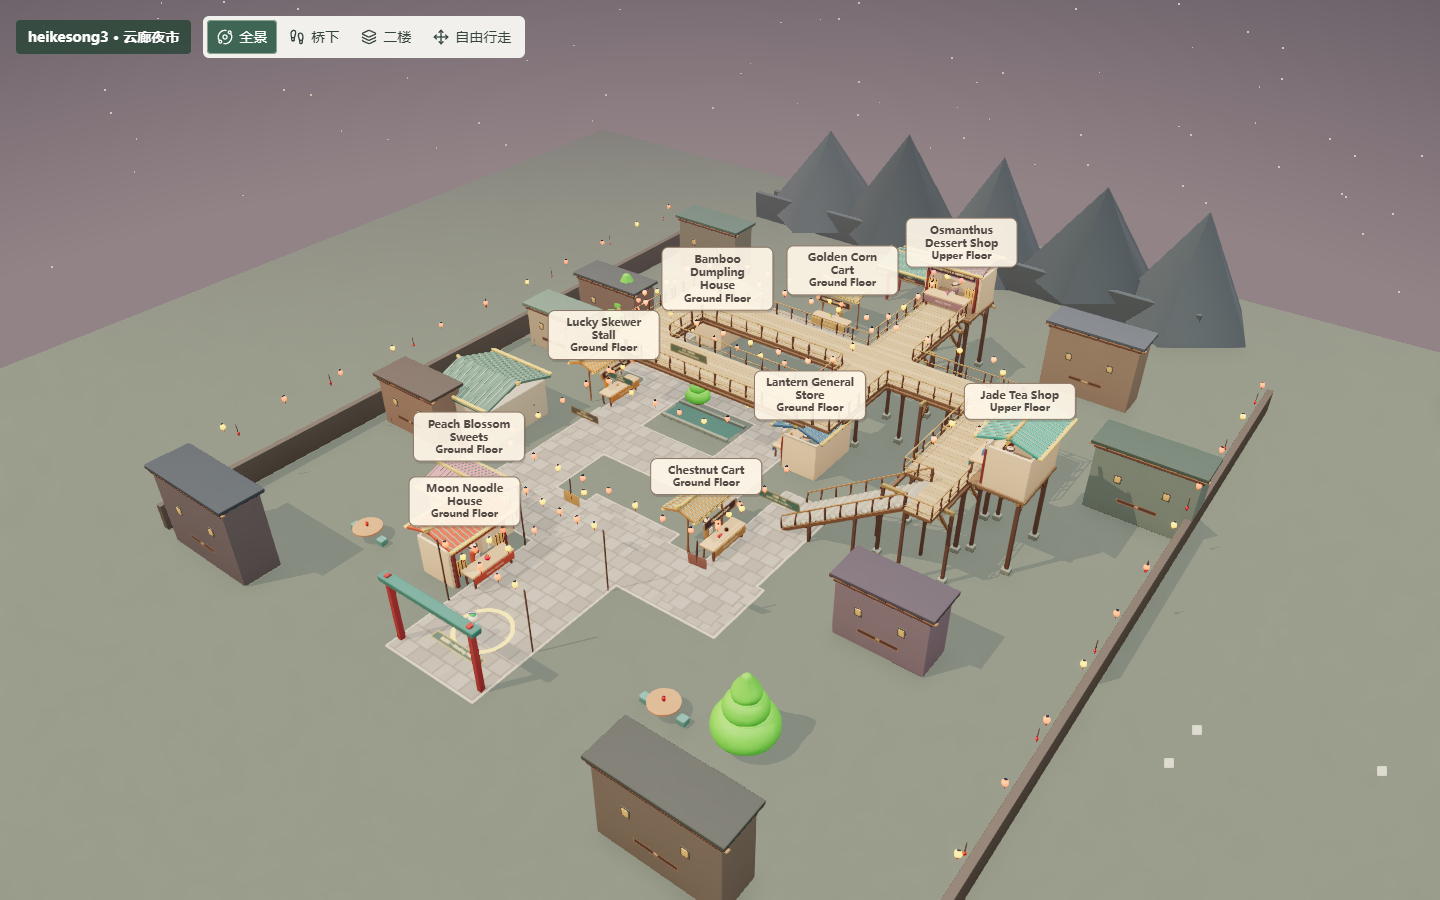
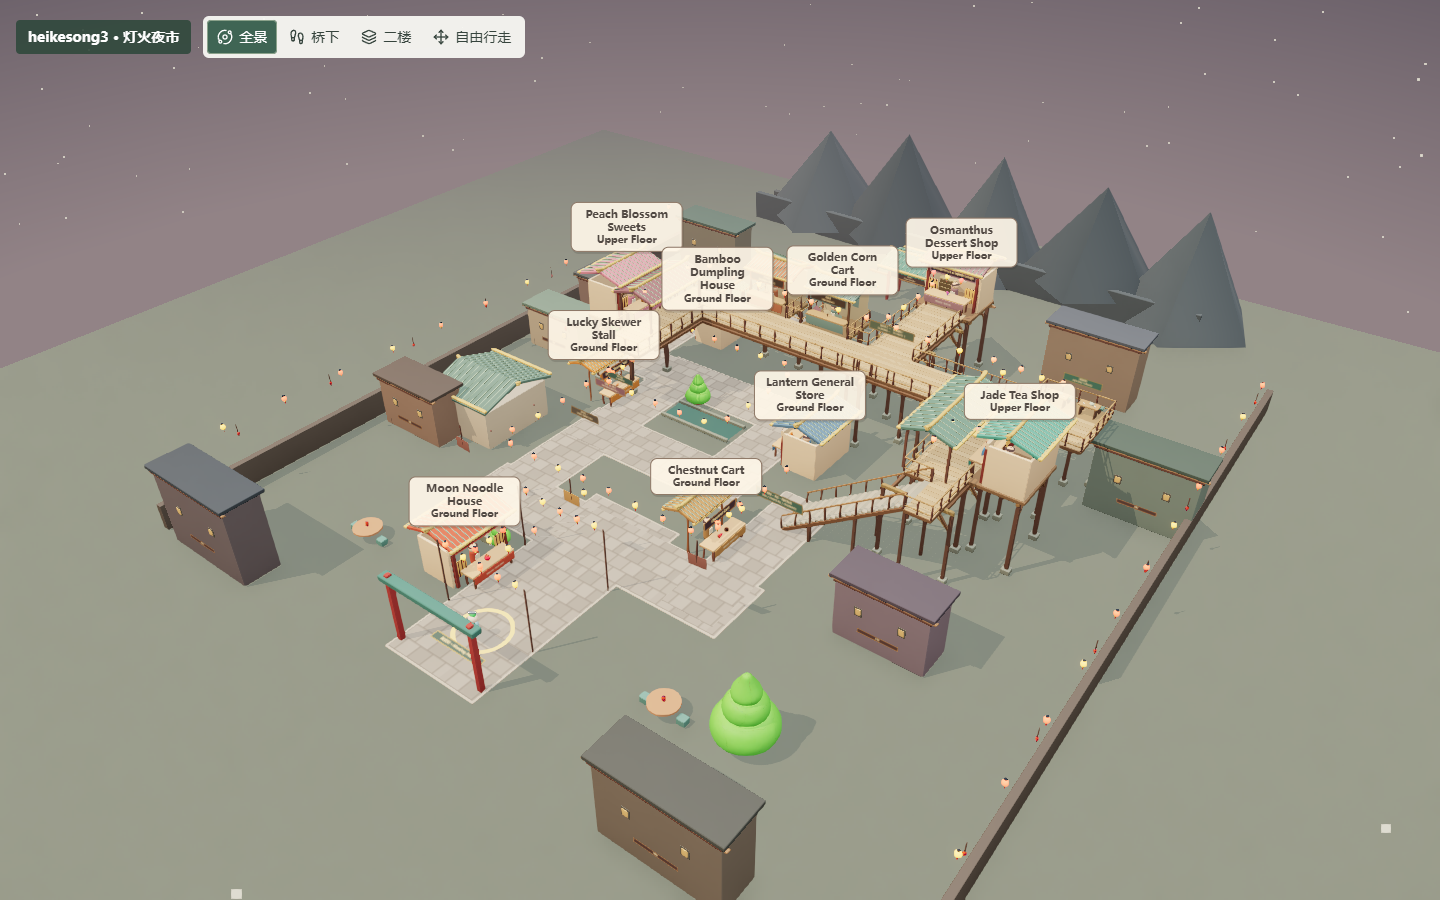
feat: organize elevated night market around merchant frontages

diff --git a/src/components/three/NightMarketScene.tsx b/src/components/three/NightMarketScene.tsx
@@ -143,7 +143,11 @@ function TimberBeam({ from, to, width = 0.16, color = '#806049' }: { from: [numb
 const deckParts = (road: typeof MARKET_ROADS[number]) => road.a === 12
   ? [{ x: 16, z: -10.05, w: 3.4, d: 11.3 }, { x: 16.85, z: -2.85, w: 1.7, d: 3.1 }]
   : [road];
-const upperDecks = MARKET_ROADS.filter((r) => r.level === 2).flatMap(deckParts);
+const upperDecks = [
+  ...MARKET_ROADS.filter((r) => r.level === 2).flatMap(deckParts),
+  { x: 19.5, z: -16.5, w: 4.4, d: 1.7 },
+  ...[-3.3, 1.8].map((x) => ({ x, z: -17.1, w: 3.8, d: 3 })),
+];
 const belowHeight = MARKET_UPPER_HEIGHT - 0.35;
 
 function BridgeSupports({ road }: { road: typeof MARKET_ROADS[number] }) {
@@ -309,9 +313,14 @@ function SkywalkRails() {
       for (let i = 0; i <= count; i++) {
         const [x, , z] = point(i + 0.5);
         const internal = upperDecks.some((other, j) => j !== deckIndex && Math.abs(x + edge.outward[0] * 0.04 - other.x) < other.w / 2 && Math.abs(z + edge.outward[1] * 0.04 - other.z) < other.d / 2);
-        const entrance = (Math.abs(x - 16) < 0.1 && z > -4.4 && z < -1.5)
-          || (Math.abs(x - 17.7) < 0.1 && z > -10.5 && z < -5.5)
-          || (z < -23.5 && x > 5.2 && x < 8.8);
+        const shopEntrance = MARKET_SHOPS.some((shop) => {
+          if (!shop.elevation) return false;
+          const dx = x - shop.x, dz = z - shop.z;
+          const across = dx * Math.cos(shop.yaw) - dz * Math.sin(shop.yaw);
+          const front = dx * Math.sin(shop.yaw) + dz * Math.cos(shop.yaw);
+          return Math.abs(across) < 1.8 && front > 0.9 && front < 2.6;
+        });
+        const entrance = shopEntrance || (Math.abs(x - 16) < 0.1 && z > -4.4 && z < -1.5);
         const draw = i < count && !internal && !entrance;
         if (draw && start < 0) start = i;
         if (!draw && start >= 0) { runs.push({ from: point(start), to: point(i) }); start = -1; }
@@ -331,8 +340,8 @@ function TieredDistrict() {
     <Prop name="pineTree" position={[-4.8, 0, -9.8]} size={2.4} word={false} />
     <SkywalkRails />
     <Sign lines={['桥下通街', 'UNDERPASS']} position={[-8, 3.1, -5.2]} size={[2.3, 0.5]} bg="#526e66" fg="#f9e3b6" border="#ad926b" />
-    <Sign lines={['云廊 · 池院环桥', 'COURTYARD SKYWALK']} position={[-2, MARKET_UPPER_HEIGHT + 1.7, -5.3]} size={[3, 0.6]} bg="#6c7865" fg="#f6dfb3" border="#ad926b" />
-    <Sign lines={['玉露楼 · 二楼', 'UPPER TEA GALLERY →']} position={[8, 2.4, -1.2]} size={[3, 0.65]} bg="#58776b" fg="#f9e3b6" border="#ad926b" />
+    <Sign lines={['茶楼 · 点心 · 桂花甜品', 'TEA / PASTRIES / DESSERTS']} position={[8, 2.4, -1.2]} size={[3.4, 0.75]} bg="#58776b" fg="#f9e3b6" border="#ad926b" />
+    <Sign lines={['桃花点心 ←    桂香甜品 ↑', 'PASTRIES ←    DESSERTS ↑']} position={[7, MARKET_UPPER_HEIGHT + 1.8, -15.6]} size={[3.4, 0.65]} bg="#6c7865" fg="#f6dfb3" border="#ad926b" />
     <Sign lines={['荷池院 ←', 'POND COURTYARD']} position={[-7.5, 2.5, -1]} size={[2.5, 0.6]} bg="#6d655c" fg="#f6dfb3" border="#ad926b" />
     <Sign lines={['竹里巷 · BAMBOO LANE']} position={[-12.8, 2.4, -13.8]} size={[3.2, 0.5]} bg="#6c7865" fg="#f6dfb3" border="#ad926b" />
     {MARKET_PATHS.filter((p) => p.level !== 1).map((path) => {
@@ -340,6 +349,91 @@ function TieredDistrict() {
       const y = path.level === 2 ? MARKET_UPPER_HEIGHT + 3.2 : 4.4;
       return <LanternString key={path.name} from={[a.x, y, a.z]} to={[b.x, y, b.z]} count={Math.max(3, Math.floor(Math.hypot(b.x - a.x, b.z - a.z) / 2))} sag={0.25} color={path.level === 2 ? '#dac48a' : '#d49c6e'} />;
     })}
+  </group>;
+}
+
+function TeaTable({ position, color = '#719185' }: { position: [number, number, number]; color?: string }) {
+  return <group position={position}>
+    <Box size={[1.25, 0.12, 0.7]} position={[0, 0.78, 0]} color="#ba9870" radius={0.035} />
+    {[-0.46, 0.46].map((x) => <Box key={x} size={[0.09, 0.72, 0.48]} position={[x, 0.36, 0]} color="#765b4d" radius={0.015} />)}
+    <Box size={[1.4, 0.12, 0.38]} position={[0, 0.42, -0.68]} color={color} radius={0.03} />
+    {[-0.5, 0.5].map((x) => <Box key={x} size={[0.1, 0.4, 0.32]} position={[x, 0.2, -0.68]} color="#765b4d" radius={0.015} />)}
+    <mesh position={[0.12, 0.9, 0]}><cylinderGeometry args={[0.14, 0.11, 0.12, 12]} /><meshStandardMaterial color="#e1e3cf" roughness={0.45} /></mesh>
+    <mesh position={[0.12, 0.98, 0]}><coneGeometry args={[0.16, 0.06, 12]} /><meshStandardMaterial color="#bdcbb6" /></mesh>
+    {[-0.3, 0.4].map((x) => <mesh key={x} position={[x, 0.87, 0.18]}><cylinderGeometry args={[0.07, 0.045, 0.09, 12]} /><meshStandardMaterial color="#eee4d2" roughness={0.5} /></mesh>)}
+  </group>;
+}
+
+function CraftFrontage({ x, craft }: { x: number; craft: 'lanterns' | 'fans' }) {
+  const lanterns = craft === 'lanterns';
+  const color = lanterns ? '#bc795a' : '#7d9790';
+  return <group position={[x, MARKET_UPPER_HEIGHT, -17]}>
+    <Box size={[3.8, 0.22, 3]} position={[0, -0.11, -0.1]} color="#947855" radius={0.025} />
+    {[-1.55, 1.55].map((px) => <group key={px}>
+      <Box size={[0.22, MARKET_UPPER_HEIGHT, 0.22]} position={[px, -MARKET_UPPER_HEIGHT / 2, -1.2]} color="#795b4a" radius={0.02} />
+      <Box size={[0.5, 0.3, 0.5]} position={[px, -MARKET_UPPER_HEIGHT + 0.15, -1.2]} color="#949487" radius={0.025} />
+      <Box size={[0.14, 2.7, 0.14]} position={[px, 1.35, 0.8]} color="#795b4a" radius={0.02} />
+      <TimberBeam from={[px, -1.2, -1.2]} to={[px * 0.5, -0.2, -1.2]} width={0.12} />
+    </group>)}
+    <Box size={[3.5, 2.6, 0.14]} position={[0, 1.3, -1.45]} color="#d5c2a0" radius={0.025} />
+    <Roof width={4} depth={3.1} y={2.7} color={color} />
+    <MarketPerson shop={{ ...MARKET_SHOPS[0], owner: lanterns ? 'Master Lu' : 'Madam Shen', color }} />
+    <Box size={[3.15, 0.13, 0.75]} position={[0, 0.95, 1]} color="#bd9b70" radius={0.025} />
+    <Box size={[3, 0.65, 0.08]} position={[0, 0.58, 1.33]} color={color} radius={0.02} />
+    <Sign lines={[lanterns ? '灯彩作坊' : '绢扇铺', lanterns ? 'LANTERN MAKER' : 'SILK & FANS']} position={[0, 2.35, 1.05]} size={[2.9, 0.65]} bg="#5e5047" fg="#ffe3ad" border={color} />
+    {[-1, 0, 1].map((i) => lanterns
+      ? <Prop key={i} name="lantern" position={[i, 1.75, -0.9]} size={0.35} word={false} />
+      : <group key={i} position={[i * 0.85, 1.08, 1]}>
+        <mesh position={[0, 0.15, 0]}><circleGeometry args={[0.33, 16, 0, Math.PI]} /><meshStandardMaterial color={['#b78e9a', '#e5d7b2', '#94aba1'][i + 1]} side={THREE.DoubleSide} roughness={0.9} /></mesh>
+        <Box size={[0.035, 0.3, 0.035]} position={[0, 0.05, 0.01]} color="#8e7055" radius={0.005} />
+      </group>)}
+    {!lanterns && [-0.85, 0.85].map((px) => <Box key={px} size={[0.5, 1.25, 0.035]} position={[px, 1.7, -1.34]} color={px < 0 ? '#b78e9a' : '#94aba1'} radius={0.01} />)}
+  </group>;
+}
+
+/** Trading frontages and seating occupy bays beside the clear circulation strip. */
+function MerchantQuarter() {
+  const h = MARKET_UPPER_HEIGHT;
+  return <group>
+    <CraftFrontage x={-3.3} craft="lanterns" />
+    <CraftFrontage x={1.8} craft="fans" />
+    {/* Each covered arcade belongs to a shop; the connecting bridges stay open. */}
+    {[{ x: 16, z: -8, yaw: Math.PI / 2, color: '#6d9084', length: 7 }, { x: -8, z: -10.5, yaw: Math.PI / 2, color: '#9a7078', length: 6 }].map((bay) => <group key={bay.x} position={[bay.x, h, bay.z]} rotation-y={bay.yaw}>
+      <Roof width={bay.length} depth={3.5} y={2.7} color={bay.color} />
+      {[-1, 1].flatMap((side) => [-1, 1].map((end) => <group key={`${side}${end}`} position={[end * (bay.length / 2 - 0.3), 0, side * 1.35 - 0.6]}>
+        <Box size={[0.14, 2.85, 0.14]} position={[0, 1.425, 0]} color="#815c50" radius={0.02} />
+        <TimberBeam from={[0, 2.15, 0]} to={[-end * 0.6, 2.7, 0]} width={0.1} />
+      </group>))}
+    </group>)}
+    {/* The tea house has a side terrace, with seating recessed off the walking line. */}
+    <group position={[19.5, h, -16.5]}>
+      <Box size={[4.4, 0.22, 1.7]} position={[0, -0.11, 0]} color="#a48a68" radius={0.025} />
+      {[-1, 1].map((x) => <TeaTable key={x} position={[x, 0, 0.2]} />)}
+      {[-1.9, 1.9].map((x) => <group key={x}>
+        <Box size={[0.22, h, 0.22]} position={[x, -h / 2, -0.55]} color="#75594c" radius={0.02} />
+        <Box size={[0.5, 0.3, 0.5]} position={[x, -h + 0.15, -0.55]} color="#96998a" radius={0.04} />
+        <TimberBeam from={[x, -1.4, -0.55]} to={[x * 0.55, -0.22, -0.55]} />
+      </group>)}
+      <Sign lines={['玉露茶座', 'JADE TEA TERRACE']} position={[0, 1.6, -0.8]} size={[2.5, 0.55]} bg="#567d70" fg="#ffe2ae" border="#b19368" />
+    </group>
+    {/* A low service yard fills the former pastry-shop plot beside Peach Lane. */}
+    <group position={[-7, 0, 9]} rotation-y={Math.PI}>
+      <TeaTable position={[-0.85, 0, 0]} color="#b78e91" />
+      <TeaTable position={[0.85, 0, 0]} color="#b78e91" />
+      <Box size={[4.2, 0.55, 0.26]} position={[0, 0.275, -1.15]} color="#a0a18d" radius={0.04} />
+      <Prop name="pineTree" position={[-2.3, 0, -0.7]} size={1.8} word={false} />
+    </group>
+    {/* Baskets, shutters and shelves give the stalls a preparation side. */}
+    {MARKET_SHOPS.filter((shop) => !shop.temporary).map((shop) => <group key={shop.id} position={[shop.x, shop.elevation ?? 0, shop.z]} rotation-y={shop.yaw}>
+      <Box size={[1.2, 0.9, 0.5]} position={[-1.25, 0.45, -1.48]} color="#8d7557" radius={0.025} />
+      {[0.32, 0.65, 0.98].map((y) => <Box key={y} size={[1.3, 0.055, 0.58]} position={[-1.25, y, -1.48]} color="#c5ab7d" radius={0.015} />)}
+      {[0, 1, 2].map((i) => <mesh key={i} position={[-1.65 + i * 0.38, 0.8, -1.45]}>
+        <cylinderGeometry args={[0.13, 0.16, 0.22, 12]} /><meshStandardMaterial color={i % 2 ? '#bac3ab' : '#c9a77a'} roughness={0.85} />
+      </mesh>)}
+      <Box size={[0.65, 1.5, 0.06]} position={[1.65, 0.9, -1.8]} color="#98755b" radius={0.015} />
+    </group>)}
+    <Sign lines={['桃花点心 · 楼上', 'PASTRIES UPSTAIRS →']} position={[-8.8, 2.2, -5]} size={[2.8, 0.6]} bg="#926e79" fg="#ffe6bd" border="#b89a70" />
+    <Sign lines={['玉露茶楼', 'TEA HOUSE']} position={[17.8, 4, -5.8]} rotation={[0, -Math.PI / 2, 0]} size={[1.25, 1.3]} bg="#52796d" fg="#ffe3ae" border="#b89a70" />
   </group>;
 }
 
@@ -360,6 +454,7 @@ function StreetSet({ overview }: { overview: boolean }) {
       {[-3.3, 3.3].map((x) => <Box key={x} size={[0.08, 4.5, 0.08]} position={[x, 2.25, z]} color="#745851" radius={0.01} />)}
     </group>)}
     <TieredDistrict />
+    <MerchantQuarter />
     {/* Timber infill creates visible blocks between the two cross lanes. */}
     {[-15].map((x) => <group key={x} position={[x, 0, 1]}>
       <Box size={[5.2, 2.8, 5.6]} position={[0, 1.4, -0.5]} color="#d1c2ae" radius={0.04} />

diff --git a/shared/nightmarket.ts b/shared/nightmarket.ts
@@ -27,7 +27,7 @@ export const MARKET_SHOPS: MarketShop[] = [
   { id: 'tea', name: 'Jade Tea Shop', zh: '玉露茶铺', owner: 'Aunt Lin', x: 19, z: -8, yaw: -Math.PI / 2, color: '#5caa9a', temporary: false, kinds: ['bubble-tea', 'soy-milk'], elevation: MARKET_UPPER_HEIGHT },
   { id: 'grill', name: 'Lucky Skewer Stall', zh: '如意烤串', owner: 'Master Wu', x: -11, z: -7, yaw: Math.PI / 2, color: '#d28a45', temporary: true, kinds: ['skewer', 'chicken-leg'] },
   { id: 'roast', name: 'Chestnut Cart', zh: '栗香小摊', owner: 'Granny Zhou', x: 5, z: 2, yaw: Math.PI / 2, color: '#b88a58', temporary: true, kinds: ['chestnut', 'sweet-potato'] },
-  { id: 'sweets', name: 'Peach Blossom Sweets', zh: '桃花点心', owner: 'Sister Tao', x: -7, z: 9, yaw: Math.PI, color: '#d38b9d', temporary: false, kinds: ['mooncake'] },
+  { id: 'sweets', name: 'Peach Blossom Sweets', zh: '桃花点心', owner: 'Sister Tao', x: -11, z: -10, yaw: Math.PI / 2, color: '#d38b9d', temporary: false, kinds: ['mooncake'], elevation: MARKET_UPPER_HEIGHT },
   { id: 'pantry', name: 'Lantern General Store', zh: '灯下杂货', owner: 'Mr Sun', x: 5, z: -9, yaw: -Math.PI / 2, color: '#698ba8', temporary: false, kinds: ['tea-egg'] },
   { id: 'dumplings', name: 'Bamboo Dumpling House', zh: '竹里饺子铺', owner: 'Aunt Xu', x: -10, z: -19, yaw: -Math.PI / 2, color: '#799681', temporary: false, kinds: ['dumpling'] },
   { id: 'corn', name: 'Golden Corn Cart', zh: '金穗炭炉', owner: 'Uncle He', x: -3, z: -26, yaw: 0, color: '#c5a162', temporary: true, kinds: ['corn'] },
@@ -54,7 +54,8 @@ export const MARKET_NODES: Point[] = [
   { x: -8, z: -12 }, { x: -13, z: -12 }, { x: -13, z: -23 },
   { x: -3, z: -23 }, { x: 8, z: 6 }, { x: 8, z: -3 },
   { x: 16, z: -3, y: MARKET_UPPER_HEIGHT }, { x: 16, z: -14, y: MARKET_UPPER_HEIGHT }, { x: 7, z: -14, y: MARKET_UPPER_HEIGHT }, { x: 7, z: -22, y: MARKET_UPPER_HEIGHT },
-  { x: -8, z: -14, y: MARKET_UPPER_HEIGHT }, { x: -8, z: -7, y: MARKET_UPPER_HEIGHT }, { x: 7, z: -7, y: MARKET_UPPER_HEIGHT },
+  { x: -8, z: -14, y: MARKET_UPPER_HEIGHT }, { x: -8, z: -7, y: MARKET_UPPER_HEIGHT },
+  { x: 20, z: -14, y: MARKET_UPPER_HEIGHT },
 ];
 export const MARKET_PATHS = [
   { a: 0, b: 1, width: 6.6, name: 'entrance street', level: 0 },
@@ -73,10 +74,9 @@ export const MARKET_PATHS = [
   { a: 12, b: 13, width: 3.4, name: 'upper tea gallery', level: 2 },
   { a: 13, b: 14, width: 3.4, name: 'upper bridge', level: 2 },
   { a: 14, b: 15, width: 3.4, name: 'Osmanthus balcony', level: 2 },
-  { a: 14, b: 16, width: 3.4, name: 'courtyard skybridge', level: 2 },
-  { a: 16, b: 17, width: 3.4, name: 'west lookout', level: 2 },
-  { a: 17, b: 18, width: 3.4, name: 'rooftop crossing', level: 2 },
-  { a: 18, b: 14, width: 3.4, name: 'lantern skywalk', level: 2 },
+  { a: 14, b: 16, width: 3.4, name: 'pastry shop bridge', level: 2 },
+  { a: 16, b: 17, width: 3.4, name: 'Peach Blossom arcade', level: 2 },
+  { a: 13, b: 18, width: 3.4, name: 'tea house terrace', level: 2 },
 ];
 export const MARKET_ROADS = MARKET_PATHS.map((path) => {
   const a = MARKET_NODES[path.a], b = MARKET_NODES[path.b];

diff --git a/tests/nightmarket.test.ts b/tests/nightmarket.test.ts
@@ -51,7 +51,7 @@ describe('walkable night market', () => {
       }
       expect(collideMarket(shopApproach(shop))).toEqual(shopApproach(shop));
     }
-    expect(MARKET_SHOPS.filter((s) => s.elevation)).toHaveLength(2);
+    expect(MARKET_SHOPS.filter((s) => s.elevation)).toHaveLength(3);
   });
 
   it('routes between every shop without crossing a building', () => {
